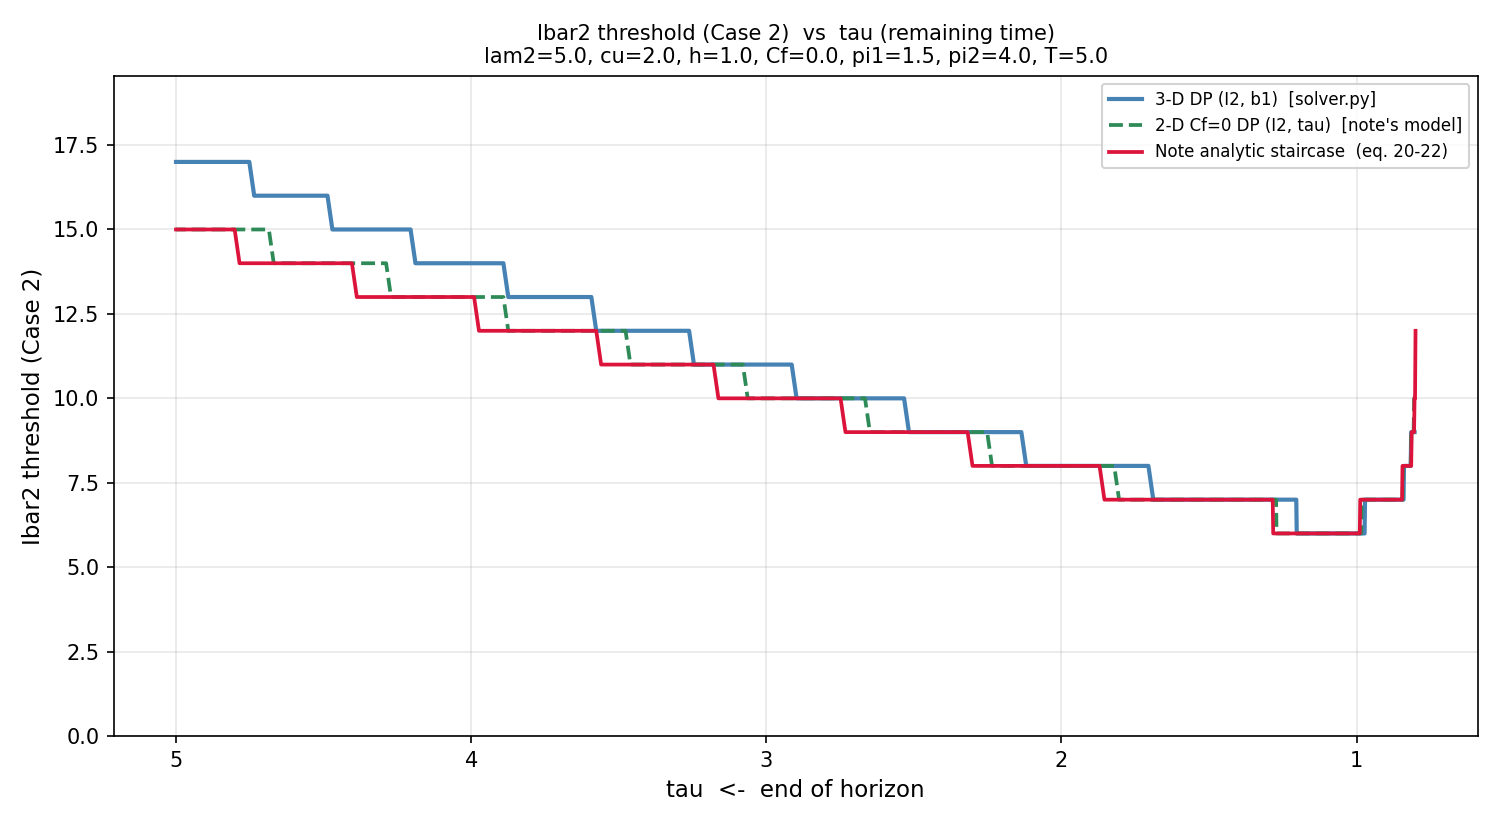
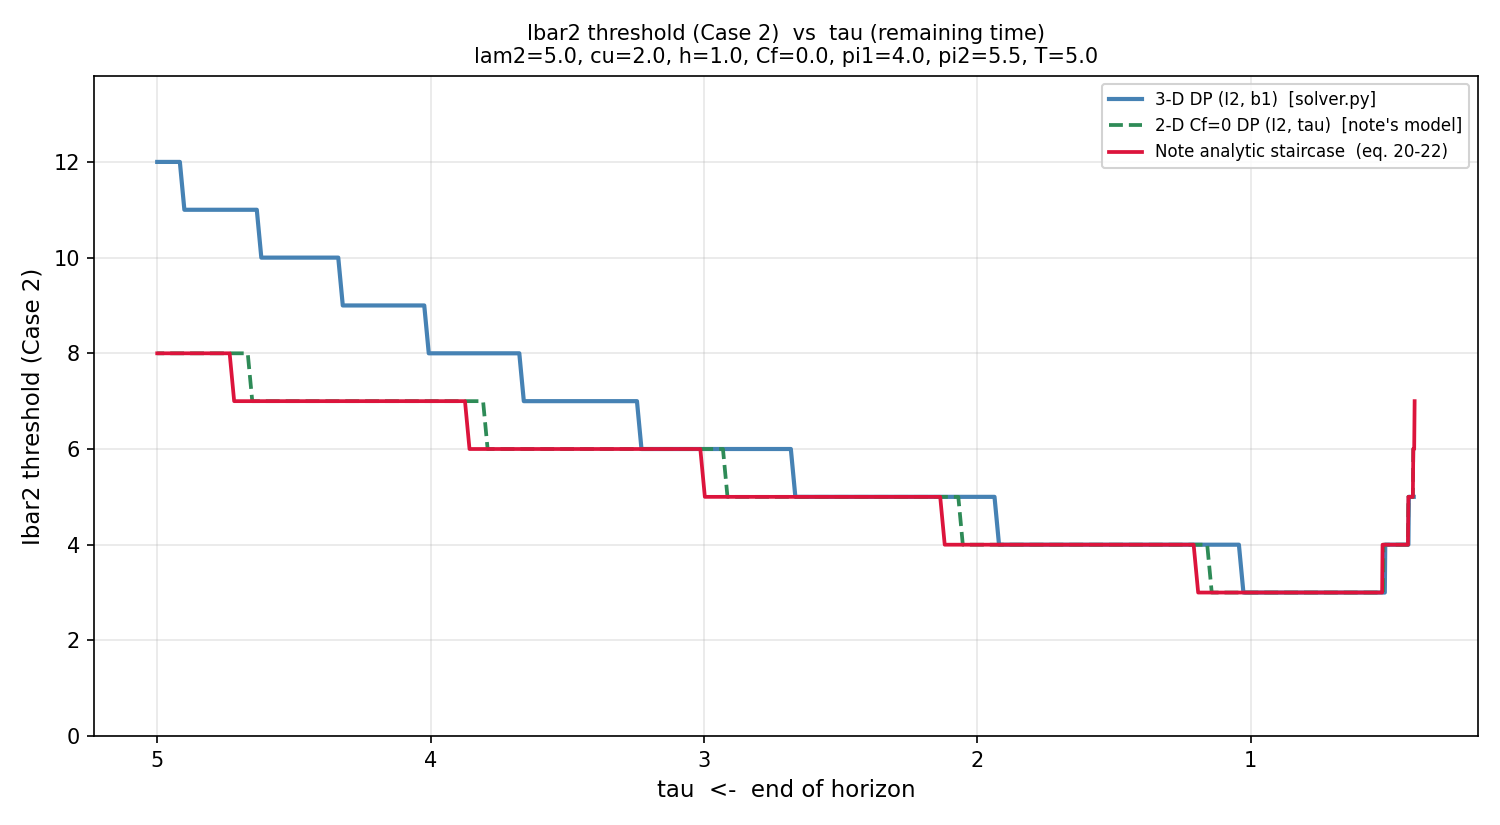
app updated

diff --git a/Clean-up System/app.py b/Clean-up System/app.py
@@ -98,12 +98,14 @@ with st.sidebar.expander("📐  State space", expanded=False):
 # ── Cf = 0 comparison overlays ──────────────────────────────────────────
 with st.sidebar.expander("🔍  Cf = 0 model comparison", expanded=False):
     if Cf == 0:
+        show_note_staircase = st.checkbox("Show note staircase (eq. 20-22)", value=True)
         show_cf0_2d = st.checkbox("Overlay 2-D Cf=0 DP (note's model)", value=True)
         n_cf0 = st.select_slider("N for the 2-D DP",
                                  options=[500, 1000, 2000, 4000, 8000],
                                  value=2000)
         st.caption(
-            "Applies to the 'Ī₂ threshold (Case 2)' plot only.\n\n"
+            "Applies to the 'Ī₂ threshold (Case 2)' plot only. These curves are "
+            "controlled here, not by any other toggle.\n\n"
             "The note solves a TWO-dimensional model with value function "
             "V(I₂, τ). Retailer-1 demand is either satisfied on arrival at cost "
             "cᵤ or rejected and charged π₁τ, and the resulting backlog is never "
@@ -112,11 +114,12 @@ with st.sidebar.expander("🔍  Cf = 0 model comparison", expanded=False):
             "which the Retailer-1 backlog is tracked and can be cleared by a "
             "later dispatch. The two models therefore have different optimal "
             "thresholds.\n\n"
-            "Use this overlay to compare the note's analytical staircase against "
-            "a DP of the note's OWN model. The fixed b₁ slider does not affect "
-            "this curve, since the model has no b₁."
+            "Use the overlay to compare the note staircase against a DP of the "
+            "note's OWN model. The fixed b₁ slider does not affect these curves, "
+            "since the note's model has no b₁."
         )
     else:
+        show_note_staircase = False
         show_cf0_2d = False
         n_cf0 = 2000
         st.caption("Set Cf = 0 to enable the comparison with the note's 2-D model.")
@@ -195,31 +198,9 @@ def tau_grid(T_, n_uniform=300, n_dense=400, band=0.6):
     return np.unique(np.concatenate([base, dense]))
 
 
-def _sqrt(x):
-    return math.sqrt(max(0.0, x))
-
-def an_b1star(I2, tau):
-    a2 = alpha2; ph = phi2
-    g  = gamma
-    A  = 2*I2 + 1 - 2*a2 + 2*g*tau
-    D  = A**2 - 4*ph
-    if D < 0 or ph == 0:
-        return None
-    return 0.5*(A - _sqrt(D))
-
-def an_I2bar(tau):
-    xi = 1 - 2*alpha2 + 2*gamma*tau
-    if phi2 == 0:
-        return lam2*cu/hp2 - gamma*tau
-    return 0.5*(_sqrt(xi**2 + 4*phi2) - xi)
-
-def an_I2bar_Cf0_fluid(tau):
-    """Fluid (continuous) approximation of the Cf=0 threshold: α₂ − γτ."""
-    return lam2*cu/hp2 - gamma*tau
-
 def an_I2bar_Cf0_exact(tau, nmax=200):
     """
-    Exact Cf=0 participation threshold (paper, Section 5-6):
+    Note staircase, eq. (20)-(22):
         Ibar(tau) = min{ n>=1 : M(n,tau) >= g(tau) },
         M(n,tau) = E[min(K,n)] = sum_{j=1}^n P(K>=j),   K ~ Poisson(lam2*tau),
         g(tau)   = lam2 * (cu + (pi2-pi1)*tau) / (h+pi2).
@@ -319,7 +300,7 @@ with tab_2d:
             key="y2d",
         )
     with pc3:
-        show_analytical = st.checkbox("Overlay analytical formula", value=True, key="oa2d")
+        st.caption("")
 
     # fixed-dimension sliders
     _T_f    = float(dp.p.T)    if dp is not None else float(T)
@@ -367,7 +348,7 @@ with tab_2d:
         offset = 1.0 if retained else 0.0
 
         if is_I2bar:
-            ys_dp, ys_an = [], []
+            ys_dp = []
             for x in xs:
                 tau_q = float(x) if x_choice == "τ (remaining time)" else tau_fixed
                 I2_q  = int(x)   if x_choice == "I₂ (inventory)"     else I2_fixed
@@ -378,14 +359,9 @@ with tab_2d:
                     if dp.get_policy(n, I2t, b1_q) > 0:
                         th = I2t; break
                 ys_dp.append((th - offset) if th is not None else np.nan)
-                ys_an.append(an_I2bar(tau_q) - offset)
 
             ax.plot(xs, ys_dp, color='steelblue', lw=2,
                     label="3-D DP (I₂, b₁)")
-            if show_analytical:
-                an_clean = [v if v is not None else np.nan for v in ys_an]
-                ax.plot(xs, an_clean, color='steelblue', lw=1.2,
-                        ls='--', alpha=0.7, label="Analytical (corrected)")
             if Cf == 0 and x_choice == "τ (remaining time)":
                 # DP of the note's OWN 2-D model, for a like-for-like comparison
                 # against the note's analytical staircase.
@@ -400,17 +376,12 @@ with tab_2d:
                                 label="2-D Cf=0 DP (note's model)")
                     except Exception as e:
                         st.warning(f"2-D Cf=0 DP failed: {e}")
-                if show_analytical:
-                    # Note eq. (20)-(22). Labelled as the note's staircase rather
-                    # than "exact": it is built from the always-wait value
-                    # function, so it need not be the exact optimum of the model.
+                # Note eq. (20)-(22). Controlled by its own toggle in the
+                # "Cf = 0 model comparison" panel, controlled only by this panel.
+                if show_note_staircase:
                     exact_vals = [an_I2bar_Cf0_exact(float(x)) - offset for x in xs]
                     ax.plot(xs, exact_vals, color='crimson', lw=1.8,
                             ls='-', alpha=0.85, label="Note staircase (eq. 20-22)")
-                    # Fluid (continuous) approximation for reference.
-                    fluid_vals = [an_I2bar_Cf0_fluid(float(x)) - offset for x in xs]
-                    ax.plot(xs, fluid_vals, 'k:', lw=1.5, alpha=0.6,
-                            label="Cf=0 fluid: α₂−γτ")
 
         else:
             if x_choice == "τ (remaining time)":
@@ -424,7 +395,7 @@ with tab_2d:
                 vary_label = "I₂"
 
             for vv, col in zip(vary_vals, colours):
-                ys_dp, ys_an = [], []
+                ys_dp = []
                 for x in xs:
                     if x_choice == "τ (remaining time)":
                         tau_q = float(x); I2_q = int(vv);   b1_q = b1_fixed
@@ -439,27 +410,20 @@ with tab_2d:
 
                     if y_choice == "q* (optimal dispatch quantity)":
                         ys_dp.append(dp.get_policy(n, I2_q, b1_q))
-                        ys_an.append(None)
                     elif y_choice == "b₁* threshold (Case 1)":
                         th = None
                         for b1t in range(1, min(I2_q, p.b1_max)+1):
                             if dp.get_policy(n, I2_q, b1t) > 0:
                                 th = b1t; break
                         ys_dp.append(th if th is not None else np.nan)
-                        ys_an.append(an_b1star(I2_q, tau_q))
                     else:
                         try:
                             ys_dp.append(dp.get_value(n, I2_q, b1_q))
                         except Exception:
                             ys_dp.append(np.nan)
-                        ys_an.append(None)
 
                 lbl = f"{vary_label}={vv}"
                 ax.plot(xs, ys_dp, color=col, lw=2, label=f"DP  {lbl}")
-                if show_analytical and any(v is not None for v in ys_an):
-                    an_clean = [v if v is not None else np.nan for v in ys_an]
-                    ax.plot(xs, an_clean, color=col, lw=1.2,
-                            ls='--', alpha=0.7, label=f"Analytical  {lbl}")
 
         # Relabel when the Case-2 curve shows the retained level.
         y_label_txt = y_choice

diff --git a/Clean-up System/drawer.py b/Clean-up System/drawer.py
@@ -33,8 +33,8 @@ lam2 = 5.0      # Retailer 2 demand rate
 h    = 1.0      # holding cost
 Cf   = 0.0      # fixed ship cost
 cu   = 2.0      # unit ship cost
-pi1  = 1.5      # Retailer 1 penalty
-pi2  = 4.0      # Retailer 2 penalty
+pi1  = 4.0      # Retailer 1 penalty
+pi2  = 5.5      # Retailer 2 penalty
 
 c1   = 0.0      # terminal: clear R1 backlog
 c2   = 0.0      # terminal: clear R2 backlog